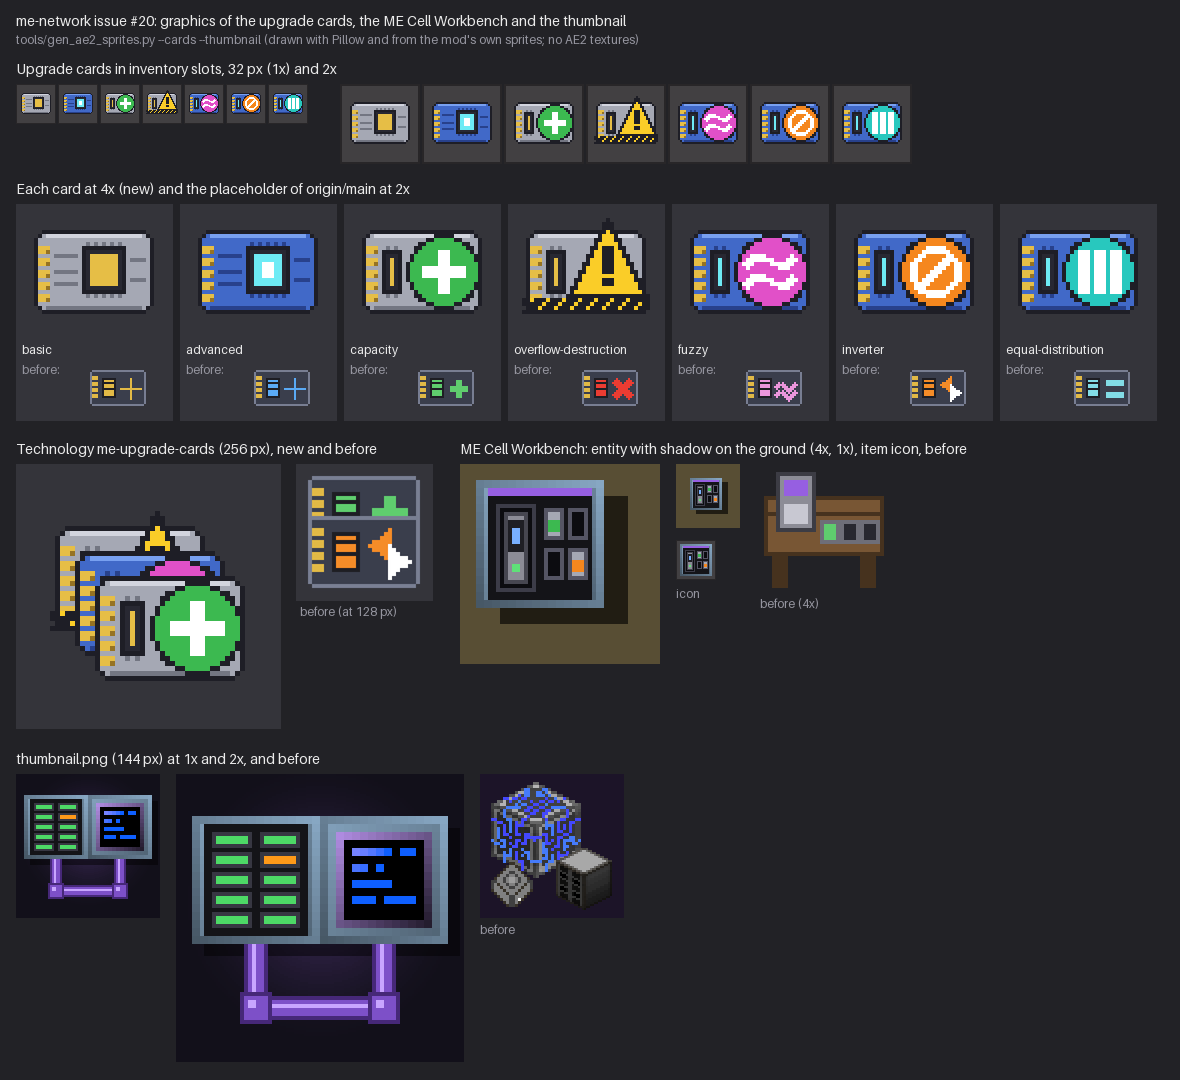
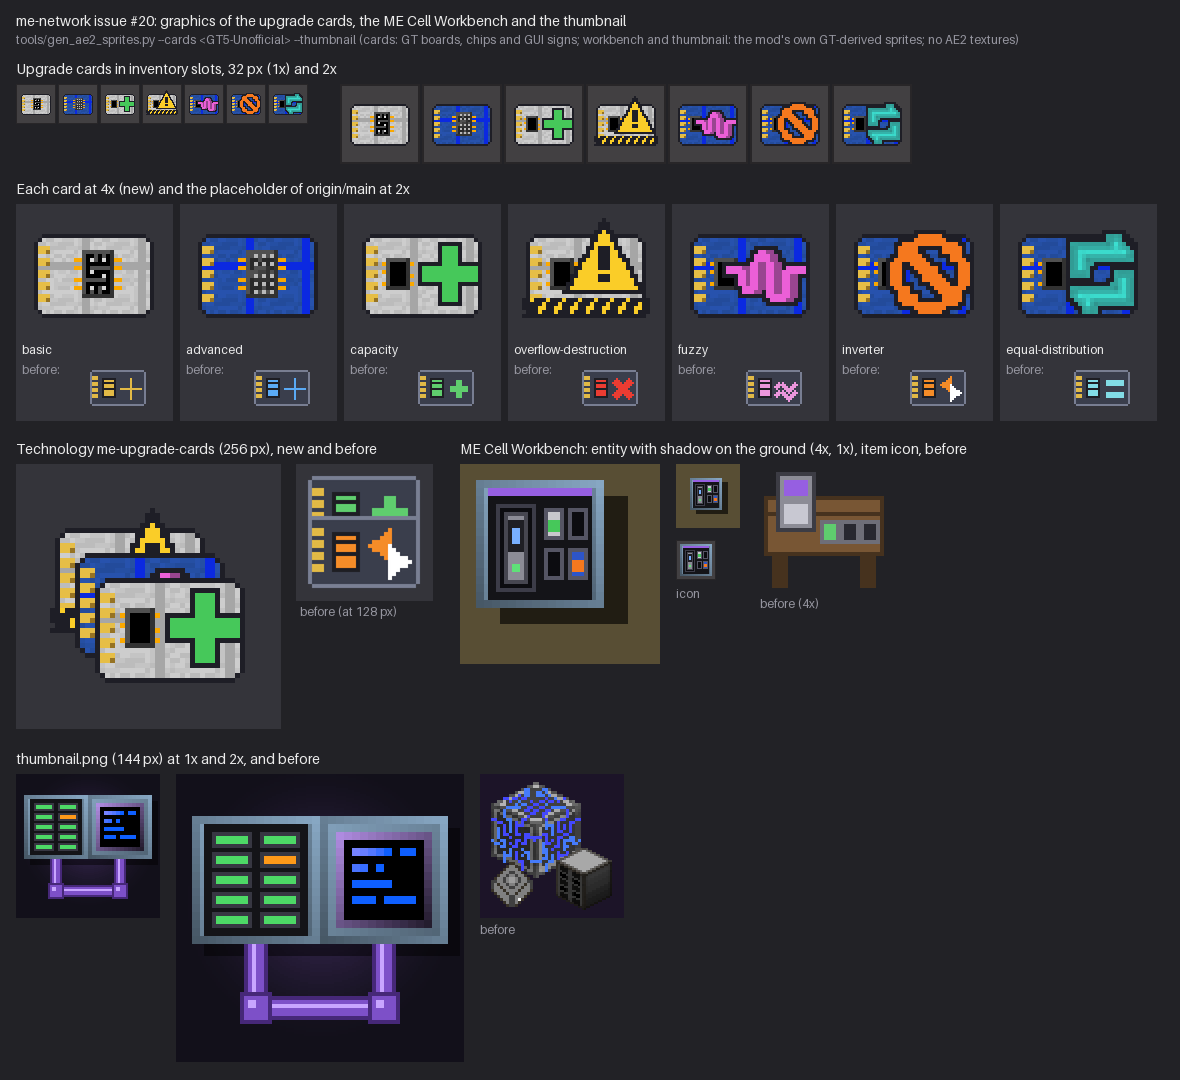
Make the upgrade cards from GT5-Unofficial textures
The cards of the previous commit were drawn with Pillow only. They now
come from the same texture source as the blocks: tools/gen_ae2_sprites.py
--cards <GT5-Unofficial checkout> cuts the card body from a GT circuit
board (the coated basic board, gray, for the basic card and what is made
from it; the epoxy board, blue, for the advanced card), puts GT's basic
and good circuit on the two components and a GT SMD chip on the others,
and the sign of a GT machine GUI button on the right, recoloured with its
light and shade kept: plus (capacity, green), analog wave (fuzzy,
magenta), disable ring (inverter, orange), cyclic arrows (equal
distribution, cyan). The Overflow Destruction Card stays a warning: a
yellow triangle with a black "!" and hazard stripes.

The technology icon follows the cards; the workbench shows its two held
cards on their own base colour. README licence note and changelog line
name the GT textures; no AE2 textures are used.

diff --git a/tools/gen_ae2_sprites.py b/tools/gen_ae2_sprites.py
@@ -3,7 +3,8 @@
 
 Sources:
   * GregTech 5 machine casings and screen overlays from a checkout of
-    GTNewHorizons/GT5-Unofficial (LGPL-3.0), tinted with the GT material color of the tier
+    GTNewHorizons/GT5-Unofficial (LGPL-3.0), tinted with the GT material color of the tier; for the upgrade
+    cards its circuit boards, circuits, an SMD chip and the signs of its machine GUI buttons (--cards)
   * existing icons of this mod (ME drive, storage housing; drawn for Gregtorio, where this network was made)
   * everything else (drive bays, cell LEDs, interface arrows) is drawn here with Pillow
   * the fluid variants (prototypes/fluids.lua) are derived from the item PNGs
@@ -19,8 +20,9 @@ Sources:
     python tools/gen_ae2_sprites.py --fluid-storage-bus # only the ME Fluid Storage Bus, from the R1 PNGs
     python tools/gen_ae2_sprites.py --patterns    # only the blank and encoded pattern icons (issue #80)
     python tools/gen_ae2_sprites.py --unified     # only the ME Interface with its four pipe sides (me-network issue #3)
-    python tools/gen_ae2_sprites.py --cards       # only the upgrade cards, their technology and the ME Cell Workbench
-                                                  # (me-network issues #17 and #20)
+    python tools/gen_ae2_sprites.py --cards C:/00_Repositories/GT5-Unofficial   # only the upgrade cards (from GT
+                                                  # boards, chips and GUI signs), their technology and the ME Cell
+                                                  # Workbench (me-network issues #17 and #20)
     python tools/gen_ae2_sprites.py --thumbnail   # only thumbnail.png, from the drive and terminal PNGs (issue #20)
     python tools/gen_ae2_sprites.py --sheet docs/graphics-review/issue-20.png   # contact sheet of the issue #20
                                                   # graphics next to origin/main (can follow any other switch)
@@ -716,111 +718,139 @@ def patterns():
 
 
 # --- me-network issues #17 and #20: upgrade cards, their technology, the ME Cell Workbench ----------------
-# Drawn with Pillow (no textures of Applied Energistics 2, see README "License"). As in AE2 every card is made from a
-# basic or an advanced card and shows that card's body: steel gray (basic) or blue (advanced), gold contacts on the
-# left, a chip. The cards made from them carry a big round badge with a white sign on the right, each in a colour of
-# its own so that they are told apart at 32 px; the Overflow Destruction Card is a warning: a yellow triangle with a
-# black "!" and black and yellow hazard stripes along the card's bottom edge.
+# Made from GT5-Unofficial textures, like the blocks (no textures of Applied Energistics 2, see README "License"). As
+# in AE2 every card is made from a basic or an advanced card and shows that card's body: a GT circuit board (the
+# coated basic board, gray, or the epoxy board, blue; items/gt.metaitem.03/7 and 6) cut to a card with gold contacts
+# on the left. The two components carry a GT circuit in the middle (the basic and the good circuit); the cards made
+# from them carry a GT SMD chip next to the contacts and, on the right, the sign of a GT machine GUI button in a
+# colour of their own, so that they are told apart at 32 px:
+#   capacity              plus_large (green)        fuzzy                 analog: a wave, "about" (magenta)
+#   inverter              disable: a slashed ring   equal distribution    cyclic: round robin arrows (cyan)
+#                         (orange)
+# The Overflow Destruction Card is a warning: a yellow triangle with a black "!" (drawn) and black and yellow hazard
+# stripes along the card's bottom edge.
 CARD_OUTLINE = (30, 30, 38)
 CONTACT = (230, 190, 70)
 CONTACT_DARK = (150, 115, 35)
-CARD_BASES = {                # base -> (body, highlight, shade, die of its chip)
-    "basic": ((165, 168, 180), (210, 212, 222), (115, 118, 130), (230, 190, 70)),
-    "advanced": ((65, 105, 200), (120, 160, 240), (40, 65, 140), (110, 235, 245)),
-}
-WHITE = (255, 255, 255)
 HAZARD = (250, 205, 40)
-CARDS = {                     # name -> (base card, badge colour, sign)
+CARD_BOX = (1, 6, TILE - 2, 26)    # the card: 30 x 21 px
+CARD_CHIP = "items/gt.metaitem.03/75"   # SMD chip of the cards made from a component
+CARD_BASES = {                # base -> (GT board texture of the body, GT circuit of the component card, body colour)
+    "basic": ("items/gt.metaitem.03/7", "items/gt.metaitem.01/701", (200, 200, 205)),
+    "advanced": ("items/gt.metaitem.03/6", "items/gt.metaitem.01/702", (45, 85, 200)),
+}
+CARDS = {                     # name -> (base card, GT GUI texture of the sign, its colour)
     "me-basic-card": ("basic", None, None),
     "me-advanced-card": ("advanced", None, None),
-    "me-capacity-card": ("basic", (60, 185, 80), "plus"),
-    "me-overflow-destruction-card": ("basic", HAZARD, "warning"),
-    "me-fuzzy-card": ("advanced", (225, 80, 200), "waves"),
-    "me-inverter-card": ("advanced", (245, 135, 30), "not"),
-    "me-equal-distribution-card": ("advanced", (40, 200, 190), "bars"),
+    "me-capacity-card": ("basic", "gui/overlay_button/plus_large", (70, 200, 90)),
+    "me-overflow-destruction-card": ("basic", "warning", HAZARD),
+    "me-fuzzy-card": ("advanced", "gui/overlay_button/analog", (235, 95, 215)),
+    "me-inverter-card": ("advanced", "gui/overlay_button/disable", (245, 120, 30)),
+    "me-equal-distribution-card": ("advanced", "gui/overlay_button/cyclic", (60, 225, 210)),
 }
+CARD_SIGN_MAX = 20            # px; larger GT signs (the 24 px ring of "disable") are scaled down to it
 
 
-def card_body(base, chip_box):
-    """32x32: the card (30 x 21 px) with its contacts on the left and a chip at `chip_box`."""
-    body, light, shade, die = CARD_BASES[base]
+def gt_texture(gt, rel):
+    """A GT5-Unofficial texture (assets/gregtech/textures/<rel>.png), its first frame."""
+    img = load(gt / "src/main/resources/assets/gregtech/textures" / (rel + ".png"))
+    return img.crop((0, 0, img.width, img.width))
+
+
+def opaque(img):
+    return img.crop(img.getchannel("A").getbbox())
+
+
+def card_board(gt, base):
+    """The card body: the GT board texture (its rim cut off) tiled over the card, gold contacts on the left."""
+    tex = gt_texture(gt, CARD_BASES[base][0]).crop((1, 1, GT_PX - 1, GT_PX - 1))
+    fill = Image.new("RGBA", (TILE, TILE))
+    for y in range(0, TILE, tex.height):
+        for x in range(0, TILE, tex.width):
+            fill.alpha_composite(tex, (x, y))
+    mask = Image.new("L", (TILE, TILE))
+    ImageDraw.Draw(mask).rounded_rectangle(CARD_BOX, radius=3, fill=255)
     img = Image.new("RGBA", (TILE, TILE))
+    img.paste(fill, (0, 0), mask)
     d = ImageDraw.Draw(img)
-    d.rounded_rectangle((1, 5, TILE - 2, 25), radius=3, fill=body + (255,), outline=CARD_OUTLINE + (255,))
-    d.line((4, 6, TILE - 5, 6), fill=light + (255,))                       # light top edge, shaded bottom edge
-    d.line((4, 24, TILE - 5, 24), fill=shade + (255,))
-    for y in range(9, 22, 3):                                                # the contacts
+    d.rounded_rectangle(CARD_BOX, radius=3, outline=CARD_OUTLINE + (255,))
+    for y in range(9, 24, 3):
         d.rectangle((2, y, 4, y + 1), fill=CONTACT + (255,))
         d.point((4, y + 1), fill=CONTACT_DARK + (255,))
-    x0, y0, x1, y1 = chip_box
-    for x in range(x0 + 1, x1, 2):                                           # chip legs
-        d.point((x, y0 - 1), fill=shade + (255,))
-        d.point((x, y1 + 1), fill=shade + (255,))
-    d.rectangle(chip_box, fill=(40, 40, 50, 255), outline=CARD_OUTLINE + (255,))
-    d.rectangle((x0 + 2, y0 + 2, x1 - 2, y1 - 2), fill=die + (255,))
-    return img, d
-
-
-def component_card(base):
-    """Basic and advanced card: a big chip in the middle, traces from the contacts to it."""
-    img, d = card_body(base, (13, 9, 23, 20))
-    _, light, shade, die = CARD_BASES[base]
-    for y in (11, 15, 18):
-        d.line((6, y, 11, y), fill=shade + (255,))
-    d.line((25, 12, 28, 12), fill=shade + (255,))
-    d.line((25, 17, 28, 17), fill=shade + (255,))
-    if base == "advanced":                                                   # the advanced chip has a bright core
-        d.rectangle((17, 13, 19, 16), fill=WHITE + (255,))
     return img
 
 
-def upgrade_card(base, colour, sign):
-    """A card made from the basic or advanced card: a narrow chip on the left, the badge with its sign on the right."""
-    img, d = card_body(base, (6, 10, 10, 20))
-    c = colour + (255,)
-    w = WHITE + (255,)
-    if sign == "warning":
-        stripe = Image.new("RGBA", (TILE, TILE))
-        ds = ImageDraw.Draw(stripe)
-        ds.rounded_rectangle((1, 5, TILE - 2, 25), radius=3, fill=HAZARD + (255,))   # hazard stripes on the bottom edge
-        ds.rectangle((0, 0, TILE, 21), fill=(0, 0, 0, 0))
-        for x in range(-4, TILE, 4):
-            ds.polygon([(x, 25), (x + 2, 25), (x + 5, 22), (x + 3, 22)], fill=CARD_OUTLINE + (255,))
-        img.alpha_composite(stripe)
-        d = ImageDraw.Draw(img)
-        d.rounded_rectangle((1, 5, TILE - 2, 25), radius=3, outline=CARD_OUTLINE + (255,))
-        d.polygon([(21, 2), (31, 21), (11, 21)], fill=CARD_OUTLINE + (255,))   # the triangle with a dark rim
-        d.polygon([(21, 5), (29, 20), (13, 20)], fill=c)
-        d.rectangle((20, 9, 22, 15), fill=CARD_OUTLINE + (255,))           # the "!"
-        d.rectangle((20, 17, 22, 18), fill=CARD_OUTLINE + (255,))
+def card_sign(img, colour):
+    """A GT GUI sign in `colour`, its light and shade kept, with a 1 px dark outline (1 px larger on each side)."""
+    if max(img.size) > CARD_SIGN_MAX:
+        s = CARD_SIGN_MAX / max(img.size)
+        img = img.resize((round(img.width * s), round(img.height * s)), Image.LANCZOS)
+    w, h = img.size
+    mask = img.getchannel("A").point(lambda v: 255 if v > 100 else 0)
+    src, m = img.load(), mask.load()
+    lums = [sum(src[x, y][:3]) / 3 for y in range(h) for x in range(w) if m[x, y]]
+    lo, hi = min(lums), max(lums)
+    sign = Image.new("RGBA", (w, h))
+    px = sign.load()
+    for y in range(h):
+        for x in range(w):
+            if m[x, y]:
+                t = 1.0 if hi - lo < 40 else (sum(src[x, y][:3]) / 3 - lo) / (hi - lo)   # flat signs: one colour
+                t = 0.6 + 0.4 * t
+                px[x, y] = tuple(int(CARD_OUTLINE[i] + (colour[i] - CARD_OUTLINE[i]) * t) for i in range(3)) + (255,)
+    out = Image.new("RGBA", (w + 2, h + 2))
+    dark = Image.new("RGBA", (w, h), CARD_OUTLINE + (255,))
+    for dx in range(3):
+        for dy in range(3):
+            out.paste(dark, (dx, dy), mask)
+    out.alpha_composite(sign, (1, 1))
+    return out
+
+
+def warning_sign():
+    """21 x 19: a yellow triangle with a dark rim and a black "!"."""
+    img = Image.new("RGBA", (21, 19))
+    d = ImageDraw.Draw(img)
+    d.polygon([(10, 0), (20, 18), (0, 18)], fill=CARD_OUTLINE + (255,))
+    d.polygon([(10, 3), (18, 17), (2, 17)], fill=HAZARD + (255,))
+    d.rectangle((9, 7, 11, 12), fill=CARD_OUTLINE + (255,))
+    d.rectangle((9, 14, 11, 15), fill=CARD_OUTLINE + (255,))
+    return img
+
+
+def card_icon(gt, name):
+    base, sign, colour = CARDS[name]
+    img = card_board(gt, base)
+    mid = (CARD_BOX[1] + CARD_BOX[3] + 1) // 2
+    if sign is None:                                                         # a component: its GT circuit in the middle
+        circuit = opaque(gt_texture(gt, CARD_BASES[base][1]))
+        img.alpha_composite(circuit, (17 - circuit.width // 2, mid - circuit.height // 2))
         return img
-    d.ellipse((12, 6, 30, 24), fill=CARD_OUTLINE + (255,))                  # the badge with a dark rim
-    d.ellipse((13, 7, 29, 23), fill=c)
-    if sign == "plus":
-        d.rectangle((20, 10, 22, 20), fill=w)
-        d.rectangle((16, 14, 26, 16), fill=w)
-    elif sign == "waves":                                                    # two tildes: "about the same"
-        for y in (12, 17):
-            d.line([(15, y + 1), (17, y - 1), (19, y - 1), (23, y + 1), (25, y + 1), (27, y - 1)], fill=w, width=2)
-    elif sign == "not":                                                      # a ring with a slash: the filter inverted
-        d.ellipse((15, 9, 27, 21), outline=w, width=2)
-        d.line((17, 19, 25, 11), fill=w, width=2)
-    elif sign == "bars":                                                     # three equal bars: an equal share each
-        for x in (16, 20, 24):
-            d.rectangle((x, 10, x + 2, 20), fill=w)
+    chip = opaque(gt_texture(gt, CARD_CHIP))
+    img.alpha_composite(chip, (6, mid - chip.height // 2))
+    if sign == "warning":
+        stripes = Image.new("RGBA", (TILE, TILE))
+        ds = ImageDraw.Draw(stripes)
+        ds.rounded_rectangle(CARD_BOX, radius=3, fill=HAZARD + (255,))
+        ds.rectangle((0, 0, TILE, CARD_BOX[3] - 5), fill=(0, 0, 0, 0))       # only the bottom edge
+        for x in range(-4, TILE, 4):
+            ds.polygon([(x, CARD_BOX[3]), (x + 2, CARD_BOX[3]), (x + 5, CARD_BOX[3] - 4), (x + 3, CARD_BOX[3] - 4)],
+                       fill=CARD_OUTLINE + (255,))
+        img.alpha_composite(stripes)
+        ImageDraw.Draw(img).rounded_rectangle(CARD_BOX, radius=3, outline=CARD_OUTLINE + (255,))
+        w = warning_sign()
+        img.alpha_composite(w, (TILE - 1 - w.width, 2))
+        return img
+    s = card_sign(opaque(gt_texture(gt, sign)), colour)
+    img.alpha_composite(s, (TILE - 1 - s.width, mid - s.height // 2))
     return img
 
 
-def card_icon(name):
-    base, colour, sign = CARDS[name]
-    return upgrade_card(base, colour, sign) if sign else component_card(base)
-
-
-def cards_tech():
+def cards_tech(gt):
     """256x256: three cards fanned out (Overflow Destruction behind, Fuzzy, Capacity in front)."""
     img = Image.new("RGBA", (40, 40))
     for i, name in enumerate(("me-overflow-destruction-card", "me-fuzzy-card", "me-capacity-card")):
-        img.alpha_composite(card_icon(name), (i * 4, i * 5))
+        img.alpha_composite(card_icon(gt, name), (i * 4, i * 5))
     return upscale(img)
 
 
@@ -840,12 +870,13 @@ def workbench_sprite():
     d.rectangle((9, 12, 10, 15), fill=FLUIX_LIGHT + (255,))
     d.rectangle((9, 21, 10, 22), fill=(95, 225, 120, 255))                  # its LED
     slots = ((17, 7), (17, 17), (23, 7), (23, 17))
-    held = {0: CARDS["me-capacity-card"][1], 3: CARDS["me-inverter-card"][1]}
+    held = {0: "me-capacity-card", 3: "me-inverter-card"}
     for i, (x, y) in enumerate(slots):
         d.rectangle((x, y, x + 4, y + 7), fill=(12, 12, 16, 255), outline=(85, 85, 100, 255))
         if i in held:
-            d.rectangle((x + 1, y + 1, x + 3, y + 6), fill=CARD_BASES["basic"][0] + (255,))
-            d.rectangle((x + 1, y + 3, x + 3, y + 5), fill=held[i] + (255,))
+            base, _, colour = CARDS[held[i]]
+            d.rectangle((x + 1, y + 1, x + 3, y + 6), fill=CARD_BASES[base][2] + (255,))
+            d.rectangle((x + 1, y + 3, x + 3, y + 5), fill=colour + (255,))
     return img
 
 
@@ -856,7 +887,7 @@ def workbench_shadow():
     return img
 
 
-def cards():
+def cards(gt):
     written = []
 
     def save(img, path):
@@ -864,8 +895,8 @@ def cards():
         written.append(path)
 
     for name in CARDS:
-        save(card_icon(name), OUT_ICON / f"{name}.png")
-    save(cards_tech(), OUT_TECH / "me-upgrade-cards.png")
+        save(card_icon(gt, name), OUT_ICON / f"{name}.png")
+    save(cards_tech(gt), OUT_TECH / "me-upgrade-cards.png")
     bench = workbench_sprite()
     save(bench, OUT_ENTITY / "me-cell-workbench.png")
     save(workbench_shadow(), OUT_ENTITY / "me-cell-workbench-shadow.png")
@@ -951,8 +982,9 @@ def contact_sheet(out):
 
     d.text((16, 12), "me-network issue #20: graphics of the upgrade cards, the ME Cell Workbench and the thumbnail",
            font=font, fill=SHEET_TEXT)
-    d.text((16, 32), "tools/gen_ae2_sprites.py --cards --thumbnail (drawn with Pillow and from the mod's own sprites; "
-           "no AE2 textures)", font=small, fill=SHEET_DIM)
+    d.text((16, 32), "tools/gen_ae2_sprites.py --cards <GT5-Unofficial> --thumbnail (cards: GT boards, chips and GUI "
+           "signs; workbench and thumbnail: the mod's own GT-derived sprites; no AE2 textures)", font=small,
+           fill=SHEET_DIM)
 
     # 1. the cards as the player sees them: a row of inventory slots at 1x and at 2x
     names = list(CARDS)
@@ -1034,9 +1066,10 @@ def main():
                     help="only the ME Fluid Storage Bus, derived from the R1 PNGs")
     ap.add_argument("--patterns", action="store_true",
                     help="only the blank and encoded pattern icons (issue #80, drawn with Pillow)")
-    ap.add_argument("--cards", action="store_true",
+    ap.add_argument("--cards", type=Path, metavar="GT",
                     help="only the upgrade card icons, their technology icon and the ME Cell Workbench with its shadow "
-                         "(me-network issues #17 and #20, drawn with Pillow; the workbench from the interface PNG)")
+                         "(me-network issues #17 and #20): the cards from the textures of the GT5-Unofficial checkout "
+                         "GT, the workbench from the interface PNG")
     ap.add_argument("--thumbnail", action="store_true",
                     help="only thumbnail.png, from the drive, terminal and cable PNGs (me-network issue #20)")
     ap.add_argument("--sheet", type=Path, metavar="PNG",
@@ -1095,7 +1128,7 @@ def main():
         written = unified()
         print("ME unified interface sprites:", len(written))
     if a.gt or a.cards:
-        written = cards()
+        written = cards(a.gt or a.cards)
         print("ME card icons:", len(written))
     if a.gt or a.thumbnail:
         thumbnail().save(ROOT / "thumbnail.png")

diff --git a/README.md b/README.md
@@ -47,7 +47,7 @@ The repository root is the mod itself.
 | `tools/build.py` | builds `dist/me-network_<version>.zip` (`--portal` for the mod portal, `--install` into the mods folder) |
 | `tools/dev_link.py` | links the repository into the Factorio mods folder |
 | `tools/check_syntax.py` | Lua syntax check (`--loaded`: only the files the mod loads) |
-| `tools/gen_ae2_sprites.py` | the sprites and icons (GT5-Unofficial casings and screens + Pillow) |
+| `tools/gen_ae2_sprites.py` | the sprites and icons (GT5-Unofficial casings, screens, circuit boards and GUI signs + Pillow) |
 
 The names (`fork-me-*.lua`, the storage keys `fork_me_*`, the remote interfaces `gregtorio-me-*`, every prototype
 name) are kept from Gregtorio Continued: saves find their entities and items by name, the state of a Gregtorio save is
@@ -79,7 +79,8 @@ GPLv3 (see `LICENSE`), like Gregtorio Continued, where this network was made.
 
 The graphics are generated by `tools/gen_ae2_sprites.py` from
 [GT5-Unofficial](https://github.com/GTNewHorizons/GT5-Unofficial) by GTNewHorizons (LGPL-3.0: machine casings and
-screens) and shapes drawn with Pillow; the ME cable, the drive's cell bays, the bus plates and arrows, the upgrade cards
-and the ME Cell Workbench are drawn by the script or derived from those sprites, and `thumbnail.png` is put together
-from them (a drive and a terminal). Some item icons come from the original Gregtorio by Damien Reave (GPLv3). No
+screens; for the upgrade cards its circuit boards, circuits, an SMD chip and the signs of its machine GUI buttons) and
+shapes drawn with Pillow; the ME cable, the drive's cell bays, the bus plates and arrows and the ME Cell Workbench are
+drawn by the script or derived from those sprites, and `thumbnail.png` is put together from them (a drive and a
+terminal). Some item icons come from the original Gregtorio by Damien Reave (GPLv3). No
 textures of Applied Energistics 2 are used (its assets are not under a license compatible with GPLv3).
